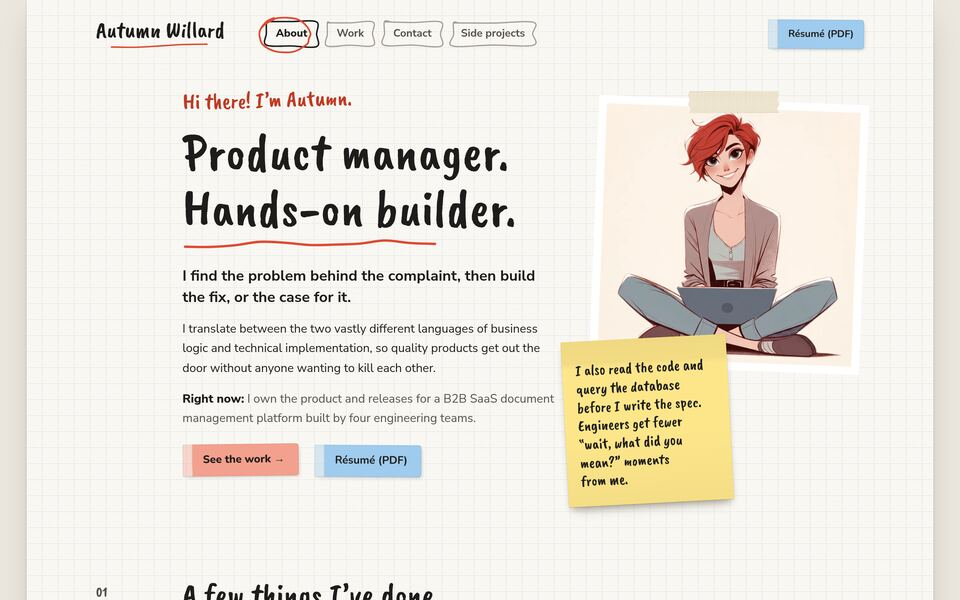
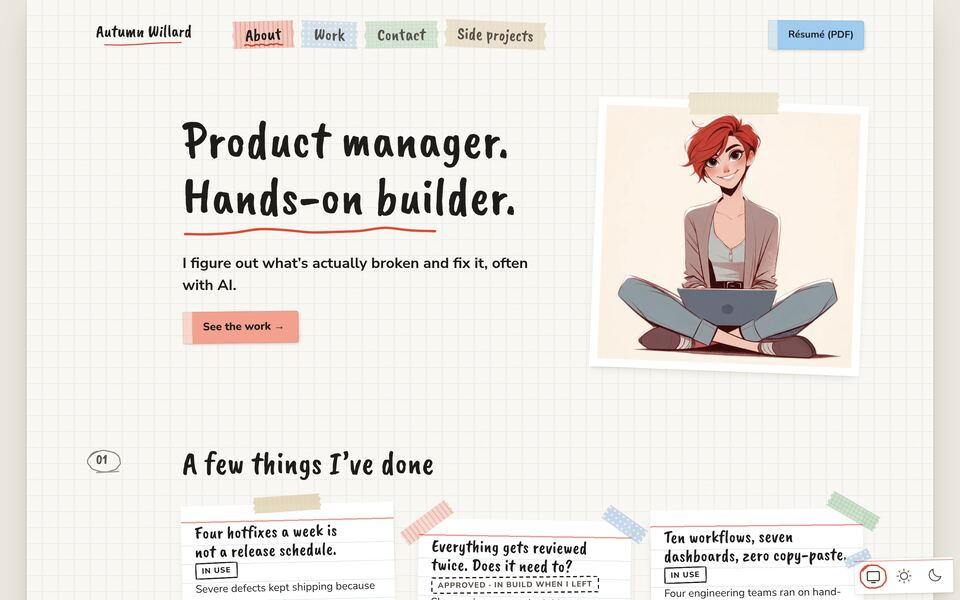
Hero subtitle mentions AI; refresh the Side Projects after screenshot

diff --git a/AGENTS.md b/AGENTS.md
@@ -170,7 +170,7 @@ Plan of record lives in `.notes/portfolio-brief.md`; the brief wins over this su
   5. Expedite request intake (compact)
   Supporting work and a Tech Handoff strategy card appear as short cards.
 - **Side Projects:** HirePurpose, Room Reserve (labeled as a capstone), this site, a small strip of design work.
-- **About** (home, `/`): a quiet hero: the title "Product manager. Hands-on builder.", one line ("I figure out what's actually broken and fix it."), one "See the work" button and the taped-in portrait (no greeting, no sticky note, no second CTA); a short list of work (one line per case study, each linking to its case-study page, plus a "See all" link to `/work/`); who I am and how I think, how I work, AI principles, a little personality (NWA; hiking, the outdoors, time with her kids, reading). No timeline or job history; never name her city.
+- **About** (home, `/`): a quiet hero: the title "Product manager. Hands-on builder.", one line ("I figure out what's actually broken and fix it, often with AI."), one "See the work" button and the taped-in portrait (no greeting, no sticky note, no second CTA); a short list of work (one line per case study, each linking to its case-study page, plus a "See all" link to `/work/`); who I am and how I think, how I work, AI principles, a little personality (NWA; hiking, the outdoors, time with her kids, reading). No timeline or job history; never name her city.
 - **Contact:** simple and direct.
 - Retired: Taniti Island, Graphic Design page, dollar figures in the hero, tool-tag lists, old flat illustrations, unused assets.
 
